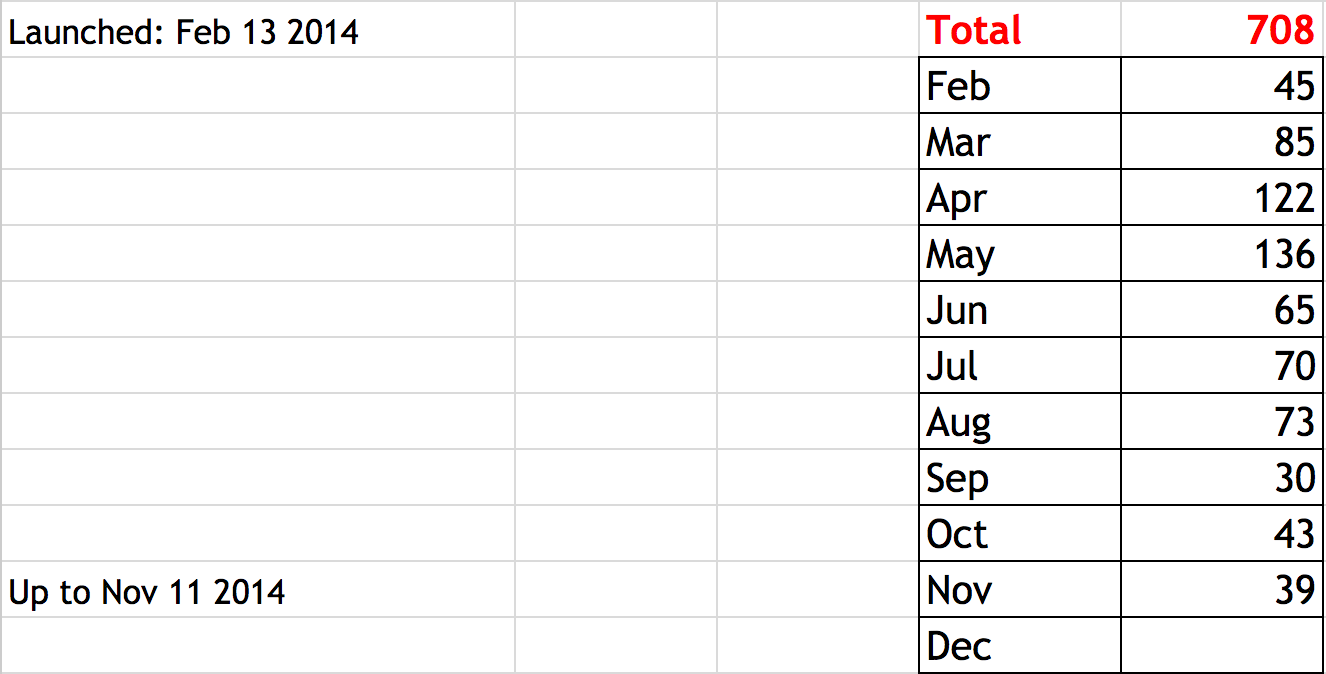
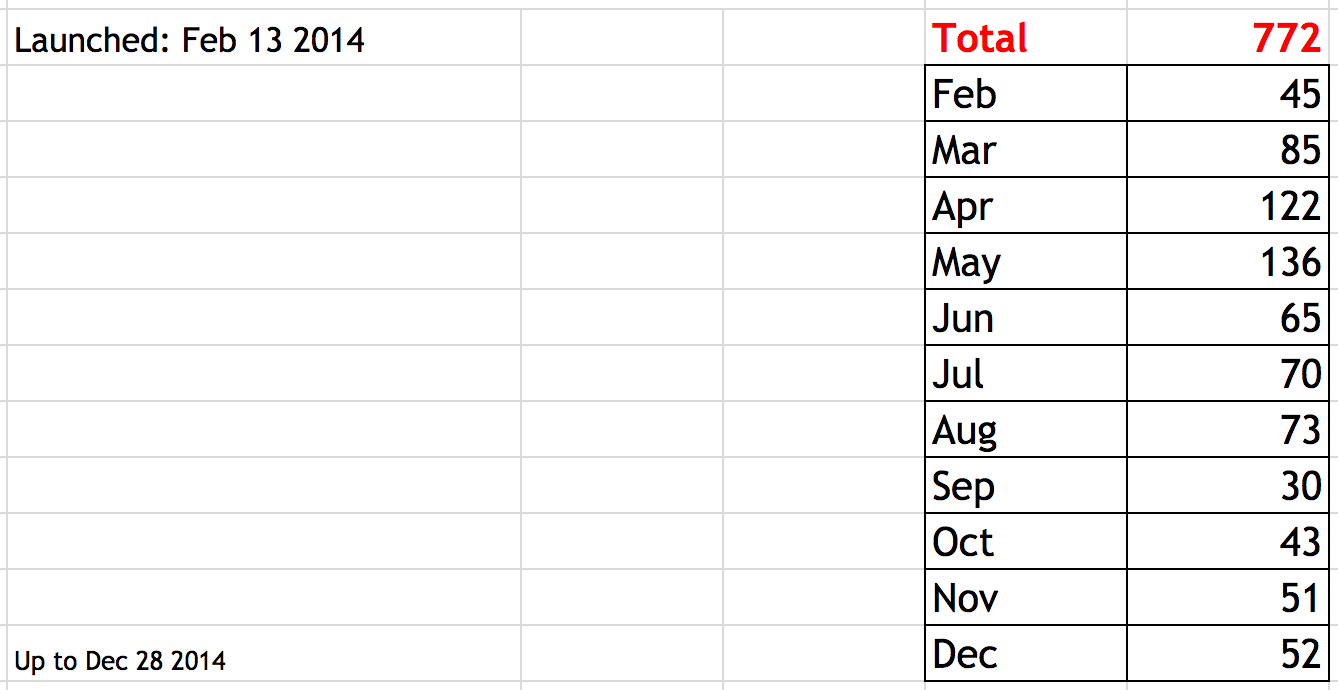
Edit statistic

diff --git a/slides.md b/slides.md
@@ -14,7 +14,7 @@ vietstack@gmail.com
 # Outline
 
 - VietStack Overview
-- Group statistics (11/2014)
+- Group statistics (12/2014)
   - Members
   - Blog Views
   - Topic
@@ -65,10 +65,10 @@ VS khoi diem tu ngay 13/2/2014, ban dau duoi mong muon tao mot kenh trao doi giu
 - Topics
 
 
-## > [700][] Member (11/2014)
+## ~ [800][] Member (12/2014)
 <img src="images/member.png" width="900"/>
 
-[700]: http://
+[800]: http://
 
 Note:
 Thang 4 va 5, VS tien hanh viet mot so blog chia se ve cach tim hieu OpenStack
@@ -136,16 +136,20 @@ Note:
 - Topic: 1-2 technical topic
 - Presenter: community (BarCamp style)
 - Time: Monthly (end of each month)
-- Next Public meetup topic: <!-- .element: class="fragment" data-fragment-index="1" -->
-  1. VietStack, Cloud Computing and OpenStack <!-- .element: class="fragment" data-fragment-index="2" -->
-  2. Virtualization in Cloud <!-- .element: class="fragment" data-fragment-index="3" -->
-  3. Storage <!-- .element: class="fragment" data-fragment-index="4" -->
-  4. Monitor <!-- .element: class="fragment" data-fragment-index="5" -->
   
 Note:
 - Barcamp Style: Dau thang to chuc vote cac chu de, cuoi thang moi nhung nguoi quan tam den trinh bay.
 - Meetup 1: OpenStack Deployment Architecture & Case Study
 - Moi Meetup se co 1 topic do nhom chu dong chon de backup, con lai la cua cong dong
+
+
+## Meetup Topics
+
+- Next Public meetup topic: <!-- .element: class="fragment" data-fragment-index="1" -->
+  1. VietStack, Cloud Computing and OpenStack <!-- .element: class="fragment" data-fragment-index="2" -->
+  2. Virtualization in Cloud <!-- .element: class="fragment" data-fragment-index="3" -->
+  3. Storage <!-- .element: class="fragment" data-fragment-index="4" -->
+  4. Monitor <!-- .element: class="fragment" data-fragment-index="5" -->
 
 ---
 
